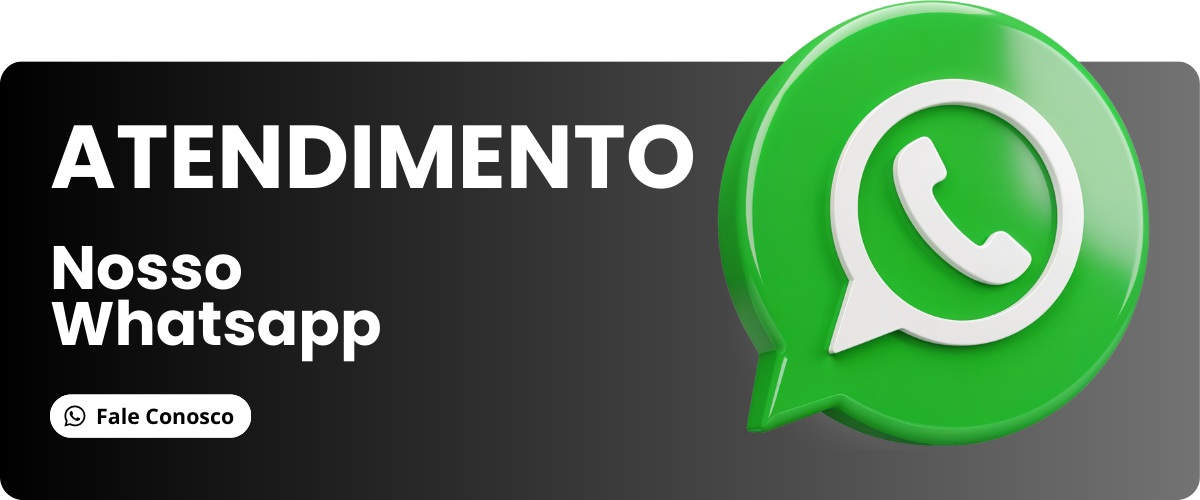
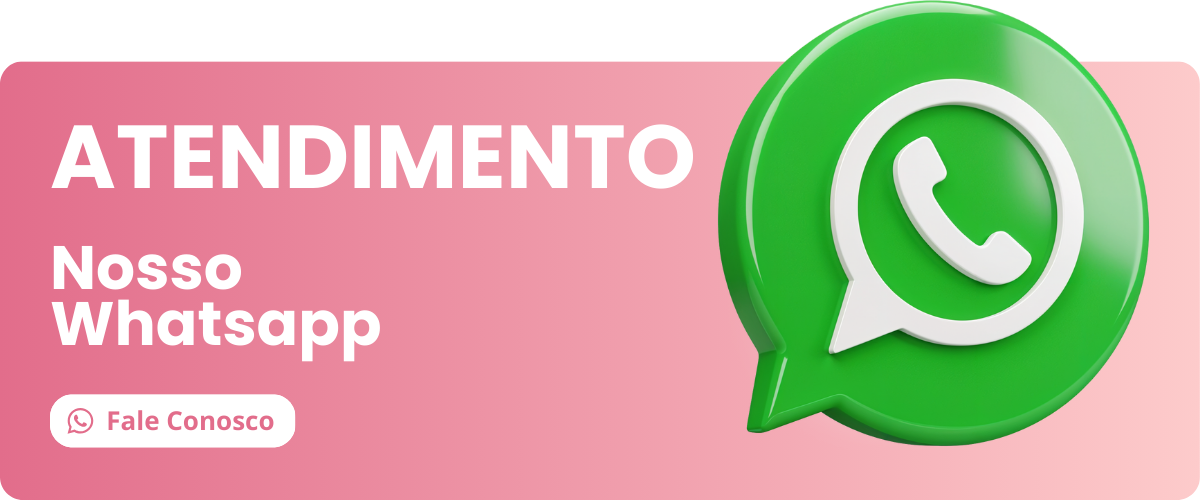
Alterações diversas
Imagens dos botões e cores da página e cor de fundo

diff --git a/index.html b/index.html
@@ -6,20 +6,20 @@
     <meta name="description" content="Transforme seu sorriso com o dentista José Costa. Acesse nossos links para agendamento, redes sociais e todos os serviços, de clareamento a harmonização facial. Seu sorriso merece esse cuidado!">
     <meta name="robots" content="all">
     <meta name="author" content="solucoeswebpro">
-    <meta name="keywords" content="Dentista, Clínica Odontológica, Odontologia Geral, Implante Dentário, Clareamento">
+    <meta name="keywords" content="Semijóias">
   
     <!-- META-tags OpenGraph -->
-    <meta property="og:title" content="Dr José Costa | Página de links" />
-    <meta property="og:description" content="Transforme seu sorriso com o dentista José Costa. Acesse nossos links para agendamento, redes sociais e todos os serviços, de clareamento a harmonização facial. Seu sorriso merece esse cuidado!">
+    <meta property="og:title" content="Malu Store | Acessórios e Presentes" />
+    <meta property="og:description" content="Acesse nossos links para contato, site e todos os serviços">
     <meta property="og:type" content="page">
-    <meta property="og:url" content="https://jefersonwebdev.github.io/pagina-de-links-moderna-dentista/" />
-    <meta property="og:image" content="https://jefersonwebdev.github.io/pagina-de-links-moderna-dentista/src/img/dentista-open-graph-image.png" />
+    <meta property="og:url" content="https://jefersonwebdev.github.io/malu-pagina-de-links/" />
+    <meta property="og:image" content="./src/img/malu-open-graph-image.png" />
     <meta property="og:image:width" content="1280">
     <meta property="og:image:height" content="640">
-    <meta property="og:image:alt" content="Um homem de barba, com um jaleco azul, sorri para a câmera com os braços cruzados.">
+    <meta property="og:image:alt" content="Logotipo da Malu Store">
 
     <!-- Favicon -->
-    <link rel="shortcut icon" href="./src/img/favicon-dentista.png" type="image/x-icon">
+    <link rel="shortcut icon" href="./src/img/malu-favicon.png" type="image/x-icon">
     <!-- CSS personalizado -->
     <link rel="stylesheet" href="./src/css/style.css">
     <!-- Fonte Google Poppins -->
@@ -29,33 +29,33 @@
     <!-- Icones Font Awesome -->
     <link rel="stylesheet" href="https://cdnjs.cloudflare.com/ajax/libs/font-awesome/6.7.2/css/all.min.css" integrity="sha512-Evv84Mr4kqVGRNSgIGL/F/aIDqQb7xQ2vcrdIwxfjThSH8CSR7PBEakCr51Ck+w+/U6swU2Im1vVX0SVk9ABhg==" crossorigin="anonymous" referrerpolicy="no-referrer" />
     <!-- Título -->
-    <title>Malu | Acessórios e Presentes</title>
+    <title>Malu Store | Acessórios e Presentes</title>
 </head>
 
 <body>
 
     <main class="container">
         <img class="logo" src="./src/img/malu-logo.png" alt="Logo mimmos">
-        <h1 class="titulo">Malu</h1>
+        <h1 class="titulo">Malu Store</h1>
         <h2 class="subtitulo">Acessórios e Presentes</h2>
         
         <ul class="lista">
             
             <li>
-                <a class="lista-link" href="#">
-                    <img src="./src/img/botao-contato.png" alt="Botão para agendar consulta">
+                <a class="lista-link" href="https://wa.me/553898012884?text=Ol%C3%A1,%20gostaria%20de%20mais%20informa%C3%A7%C3%B5es%20sobre%20seus%20servi%C3%A7os,%20vim%20atrav%C3%A9s%20da%20p%C3%A1gina%20de%20links.">
+                    <img src="./src/img/botao-contato.png" alt="Botão whatsapp">
                 </a>
             </li>
 
             <li>
                 <a class="lista-link" href="#">
-                    <img src="./src/img/botao-instagram.png" alt="Botão para ver tratamentos">
+                    <img src="./src/img/botao-site.png" alt="Botão Loja">
                 </a>
             </li>
             
             <li>
                 <a class="lista-link" href="#">
-                    <img src="./src/img/botao-catalogo.png" alt="Botão para ver a localização">
+                    <img src="./src/img/botao-catalogo.png" alt="Botão Semijóias">
                 </a>
             </li>
 

diff --git a/src/css/style.css b/src/css/style.css
@@ -5,8 +5,8 @@
     --rosa-forte: #e26d8b;
     --cinza-claro: #fdfefe;
     --branco: #ffffff;
-    --body-cor-fundo: #222;
-    --container-cor-fundo: linear-gradient(0deg, #111 0%, #737373 100%);
+    --body-cor-fundo: #e26d8b;
+    --container-cor-fundo: linear-gradient(0deg, #e26d8b 0%, #fdcbcb 100%);
 }
 
 * {
@@ -64,12 +64,12 @@ body {
     border-radius: 2rem;
     
     background-color: transparent;
-    border: 1 solid var(--rosa-forte);
+    border: 1 solid #fdcbcb;
     transition: all 0.3s ease;
 }
 
 .lista-link:hover {
-    transform: scale(1.2);
+    transform: scale(1.1);
 }
 
 .lista-link img {
